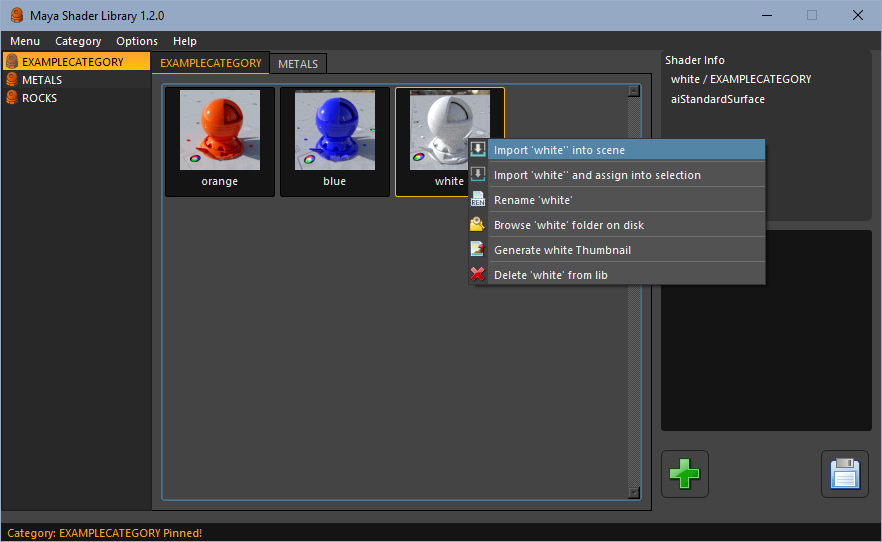
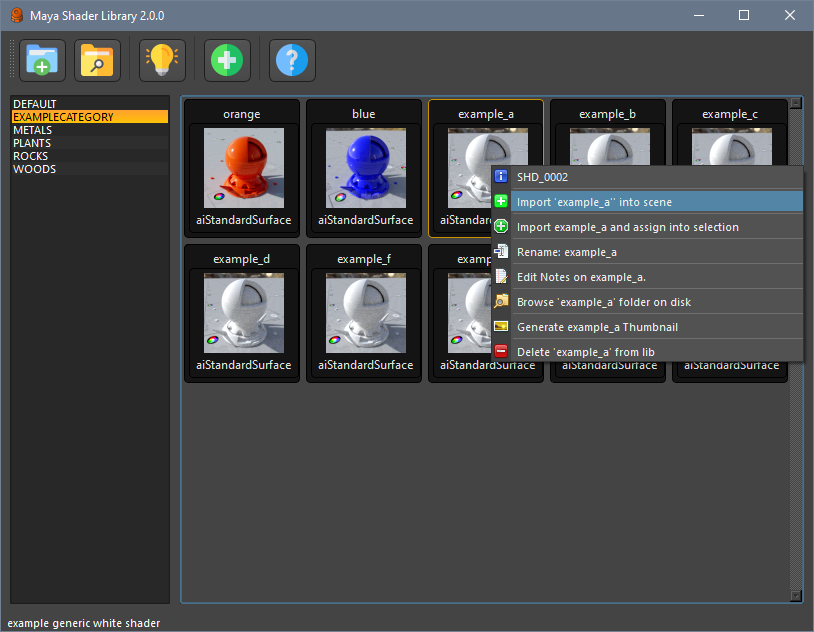
dev

diff --git a/docs/conf.py b/docs/conf.py
@@ -19,7 +19,7 @@
 # -- Project information -----------------------------------------------------
 
 project = 'MayaShaderLibrary'
-copyright = '2019, Maximiliano Rocamora'
+copyright = '2024, Maximiliano Rocamora'
 author = 'Maximiliano Rocamora'
 
 # The short X.Y version
@@ -46,7 +46,7 @@ extensions = [
     'sphinx.ext.napoleon',
     'sphinx.ext.extlinks',
     'sphinx.ext.intersphinx',
-    'sphinx.ext.viewcode'
+    'sphinx.ext.viewcode',
 ]
 
 # Add any paths that contain templates here, relative to this directory.
@@ -85,6 +85,7 @@ modindex_common_prefix = ['MayaShaderLibrary.scripts.libs.']
 # a list of builtin themes.
 #
 import sphinx_rtd_theme
+
 html_theme = 'sphinx_rtd_theme'
 html_theme_path = [sphinx_rtd_theme.get_html_theme_path()]
 
@@ -123,15 +124,12 @@ latex_elements = {
     # The paper size ('letterpaper' or 'a4paper').
     #
     # 'papersize': 'letterpaper',
-
     # The font size ('10pt', '11pt' or '12pt').
     #
     # 'pointsize': '10pt',
-
     # Additional stuff for the LaTeX preamble.
     #
     # 'preamble': '',
-
     # Latex figure (float) alignment
     #
     # 'figure_align': 'htbp',
@@ -141,8 +139,13 @@ latex_elements = {
 # (source start file, target name, title,
 #  author, documentclass [howto, manual, or own class]).
 latex_documents = [
-    (master_doc, 'MayaShaderLibrary.tex', 'MayaShaderLibrary Documentation',
-     'Maximiliano Rocamora', 'manual'),
+    (
+        master_doc,
+        'MayaShaderLibrary.tex',
+        'MayaShaderLibrary Documentation',
+        'Maximiliano Rocamora',
+        'manual',
+    ),
 ]
 
 
@@ -151,8 +154,7 @@ latex_documents = [
 # One entry per manual page. List of tuples
 # (source start file, name, description, authors, manual section).
 man_pages = [
-    (master_doc, 'mayashaderlibrary', 'MayaShaderLibrary Documentation',
-     [author], 1)
+    (master_doc, 'mayashaderlibrary', 'MayaShaderLibrary Documentation', [author], 1)
 ]
 
 
@@ -162,9 +164,15 @@ man_pages = [
 # (source start file, target name, title, author,
 #  dir menu entry, description, category)
 texinfo_documents = [
-    (master_doc, 'MayaShaderLibrary', 'MayaShaderLibrary Documentation',
-     author, 'MayaShaderLibrary', 'One line description of project.',
-     'Miscellaneous'),
+    (
+        master_doc,
+        'MayaShaderLibrary',
+        'MayaShaderLibrary Documentation',
+        author,
+        'MayaShaderLibrary',
+        'One line description of project.',
+        'Miscellaneous',
+    ),
 ]
 
 

diff --git a/msl/libs/shader_widget.py b/msl/libs/shader_widget.py
@@ -173,9 +173,17 @@ class ShaderWidget(QWidget):
 
     def edit_notes(self):
         """Edit notes on selected shader."""
-        # ! open qt dialog box for edit notes
-        self.shader.edit_notes('test')
-        SIGNALS.show_message.emit('Notes saved!')
+        text = self._notes_dialog()
+        if text:
+            self.shader.edit_notes(text)
+            SIGNALS.show_message.emit('Notes saved!')
+
+    def _notes_dialog(self):
+        """Open qt dialog box for edit shader notes."""
+        title = 'Edit Shader Notes'
+        lineEdit = QLineEdit.Normal
+        text, result = QInputDialog.getText(None, title, '', lineEdit, 'default')
+        return text if result else None
 
     def delete_shader(self):
         """Open qt dialog box for rename shader."""

diff --git a/msl/main.py b/msl/main.py
@@ -163,16 +163,12 @@ class ShaderLibraryAPP(QMainWindow):
         """Writes a message into the statusbar."""
         self.ui.statusBar().showMessage(message)
 
-    def resizeEvent(self, event):
+    def resizeEvent(self, _):
         """Resize event callback."""
-        size = event.size()
-        print(f'New size: Width={size.width()}, Height={size.height()}')
         self.resize_timer.start(100)  # 100 ms
 
     def resize_finished(self):
         """Resize finished callback."""
-        size = self.size()
-        print(f'Resize finished: Width={size.width()}, Height={size.height()}')
         index = self.ui.categories.currentRow()
         item = self.categories_widget.get_categories()[index]
         item.focus()

diff --git a/msl/version.py b/msl/version.py
@@ -17,11 +17,11 @@
 # 06/2022 - 1.2.1 / fixes
 # 06/2022 - 1.2.2 / more fixes, shader buttons to widgets
 # 02/2023 - 1.3.0 / Ruff code format, fix some bugs, update messages, fixed default path
-# 02/2023 - 1.5.0 / Complete Refactor, added types.
+# 02/2023 - 2.0.0 / Complete Refactor, added types, flexible ui, added signals, docstrings
 # ----------------------------------------------------------------------------------------
 
-VERSION_MAJOR = 1
-VERSION_MINOR = 3
+VERSION_MAJOR = 2
+VERSION_MINOR = 0
 VERSION_PATCH = 0
 
 version = f'{VERSION_MAJOR}.{VERSION_MINOR}.{VERSION_PATCH}'

diff --git a/msl/libs/category.py b/msl/libs/category.py
@@ -77,10 +77,9 @@ class Category:
     def _fill_shader_layout(self):
         """Fills given layout with buttons shaders."""
 
-        # get the width of the main ui, and calculate how many shaders can fit in a row.
+        # how many widgets can fit in a row.
         width = self.ui.width()
         wide = int(width / 140)
-        print(f'width: {width}, wide: {wide}')
 
         shader_widgets = [ShaderWidget(shader, self.ui) for shader in self.shaders()]
         index = 0

diff --git a/README.md b/README.md
@@ -1,11 +1,59 @@
+[![Message](https://img.shields.io/badge/Maya_Shader_Library-ffffff)]()
+[![Message](https://img.shields.io/badge/Maya-2022-blue?logo=autodesk)]()
+[![Message](https://img.shields.io/badge/Maya-2023-blue?logo=autodesk)]()
+[![Message](https://img.shields.io/badge/Maya-2024-blue?logo=autodesk)]()
+[![Documentation Status](https://readthedocs.org/projects/mayashaderlibrary/badge/?version=latest)](https://mayashaderlibrary.readthedocs.io/en/latest/?badge=latest)
+
 # Maya Shader Library
 
 A shading library tool to store and organize shaders in Autodesk Maya.
 Create and Manage Categories to organize, save and load maya shaders.
 
-See the [Official Documentation](https://mayashaderlibrary.readthedocs.io/en/latest/#) for installation & usage
+See the [Documentation](https://mayashaderlibrary.readthedocs.io/en/latest/#) for installation & usage
 
 *Maya +2022 Python 3 only*
 
 ----------------------------------
-![ScreenShot](https://github.com/MaxRocamora/MayaShaderLibrary/blob/master/msl/ui/screenshot/tool.png)
+![ScreenShot](https://github.com/MaxRocamora/MayaShaderLibrary/blob/master/msl/resources/screenshot/tool.png)
+
+![ScreenShot](https://github.com/MaxRocamora/MayaShaderLibrary/blob/master/msl/resources/screenshot/tool_ui.png)
+
+# Features
+
+- Create and Manage Categories to organize, save and load maya shaders.  
+- Save and Load Shaders into a library.  
+- Import shaders to scene or selected mesh.  
+- Add custom thumbnail to shaders.  
+- Add a note to shaders.  
+- Generate a thumbnail image, using a provided scene file.  
+- Resizable UI & Movable Toolbar.
+
+
+# Folders
+
+- Documentation (is online)  
+*/docs*
+
+- Saved Shaders Default Location  
+*/library/shaders*
+
+- Custom Location using environment variable  
+*%LIBRARY%/shaders*
+
+- Default Thumbnail Scene  
+*/library/scene*
+*%LIBRARY%/scene/thumbnail_scene.ma*
+
+- Python Package root  
+*/msl*
+
+### TO DO
+
+- export arnold ai shader file (now is a .ma file only)
+- update shader:
+- when export a shader into category, if exists, add update options instead of overwrite
+- show maps list connections
+- copy maps to library repository / deploy maps into target folder
+- import into selected mesh, ask for replace shader if exists
+- generate library from selection: takes all shaders from selection and creates a new category
+- import custom image for shader thumbnail

diff --git a/docs/guide.rst b/docs/guide.rst
@@ -7,15 +7,17 @@ See :ref:`installation` for details on how to install and run this tool.
 
 - Once you load the tool you should see the interface.
 
-.. image:: https://github.com/MaxRocamora/MayaShaderLibrary/blob/master/msl/ui/screenshot/tool.png?raw=true
+.. image:: https://github.com/MaxRocamora/MayaShaderLibrary/blob/master/msl/resources/screenshot/tool.png?raw=true
 
 Categories
 ----------
 
 The MayaShaderLibrary works by creating Categories, inside each category you will save/load your shaders.
 
-- Categories will be created and listed, but not displayed until you 'pin' them to the interface.
-- To remove a category from the ui, double click on the category name.
+- Categories will be created and listed, once you select one, the shaders inside that category will be displayed.
+
+.. note::
+	To remove a category from the ui, click on open category folder and delete the folder from disk.
 
 Shaders
 -------
@@ -29,7 +31,8 @@ once saved the shader should appear in the category.
 Shader Notes
 ------------
 
-For adding or editing comments on a shader, use the text box on the lower left area, and press 'save' button.
+For adding or editing comments on a shader, use context menu, and select 'edit notes'.  
+Notes are shown on the information bar when a shader is selected.
 
 .. note::
 	The shaders are stored on this location: 
@@ -37,6 +40,9 @@ For adding or editing comments on a shader, use the text box on the lower left a
 
 Shader Context Menu
 -------------------
+
+* Info  
+	Shows shader internal ID
 
 * Import into Scene
 	Adds selected shader to the maya hypershade
@@ -47,13 +53,16 @@ Shader Context Menu
 * Rename
 	Renames the shader
 
+* Edit Notes  
+	Edit the notes for this shader
+
 * Browse
 	Open explorer into shader folder
 
 * Generate Thumbnail
-	Generates thumbnail image for this shader
+	Generates thumbnail image for this shader, uses a default light rig scene.
 
-* Delete from lib
+* Delete
 	Deletes this shader from disk
 
 
@@ -65,4 +74,5 @@ Thumbnails
 
 .. note::
 	The maya file used for render the thumbnail image is located on this location: 
-	*installDirectory\\MayaShaderLibrary\\library\\scene\\thumbnail_scene.ma*
+	*installDirectory\\MayaShaderLibrary\\library\\scene\\thumbnail_scene.ma*  
+	You can edit this file to change the light rig or the render settings.

diff --git a/docs/install.rst b/docs/install.rst
@@ -4,7 +4,7 @@ Installation
 ============
 
 MayaShaderLibrary
-Requires: Maya +2022 / Python +3.6
+Minimum Version Required: Maya +2022 / Python +3.6
 
 Download
 --------
@@ -12,13 +12,16 @@ Download
 - Download/clone MayaShaderLibrary_ repository from github.
 - If you are not familiar with github, download this `zip file`_
 
+Maya Install
+------------
+
 - Copy/Paste or Unzip the contents into your preferred scripts location, or your maya scripts folder.
 
 .. _MayaShaderLibrary: https://github.com/MaxRocamora/MayaShaderLibrary
 .. _zip file: https://github.com/MaxRocamora/MayaShaderLibrary/zipball/master
 
-Maya Install
-------------
+Define Library Folder
+---------------------
 
 - Add the following environment variable to your Maya.env
 - This will be the folder where your shaders and preview files are stored.
@@ -26,6 +29,8 @@ Maya Install
 *MAYA_SHADER_LIBRARY = your_install_directory\\library*
 
 .. note:: Maya.env is usually located under "User/My Documents/Maya/2022"
+
+.. note:: If you do not set this environment variable, the default location will be used, which is the "library" folder inside the MayaShaderLibrary folder.
 
 Running the script
 ------------------
